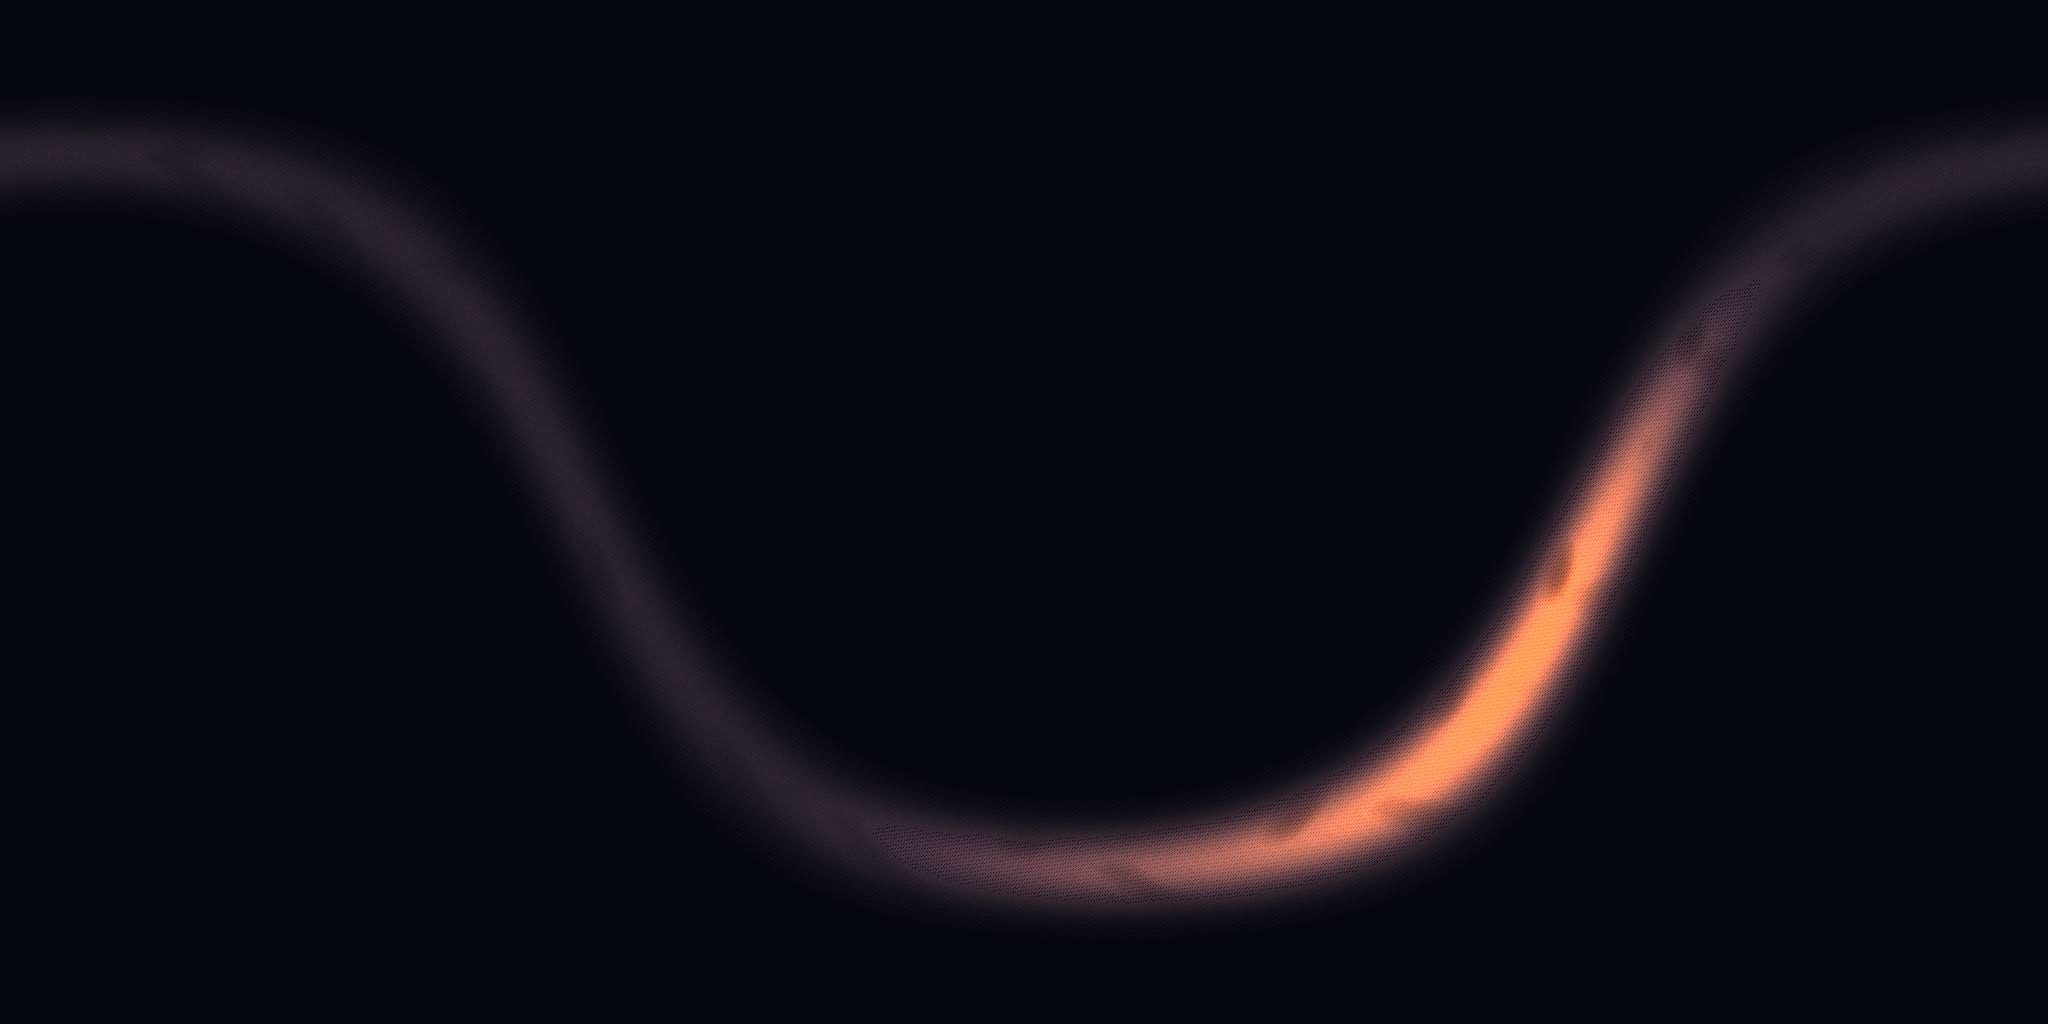
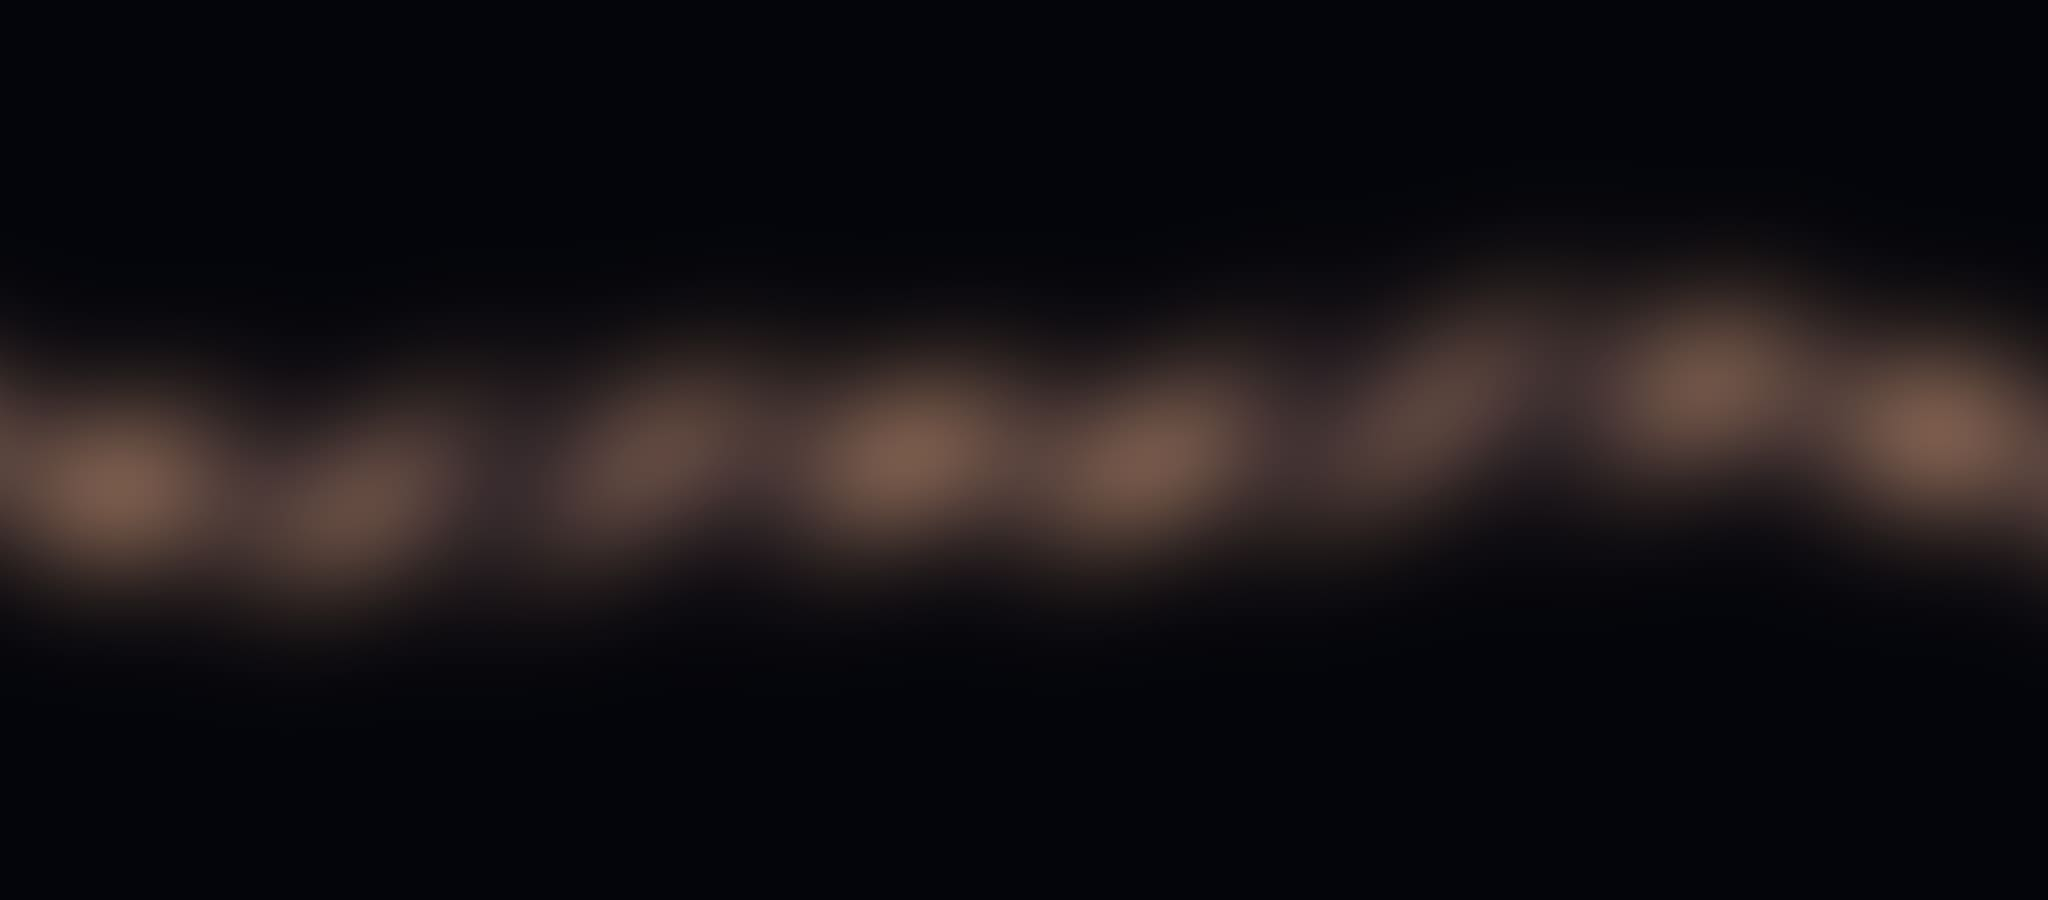
Remplir l’écran avec Pégase et ajouter l’étoile Davissiv.
Le cheval couvre la page, la Voie lactée défile sans l’arc orange, et le projet est enregistré dans le ciel.

diff --git a/app/globals.css b/app/globals.css
@@ -3082,11 +3082,50 @@ html.nav-vt::view-transition-group(nav-pill) {
   height: 100lvh;
 }
 
-.projets-copy,
 .projets .scroll-stage {
   position: relative;
   z-index: 2;
+  min-height: 0;
+  place-items: start center;
+  padding: calc(env(safe-area-inset-top) + 4.5rem) 1rem 0;
   pointer-events: none;
+}
+
+.projets .tone-sea {
+  padding-bottom: 0;
+}
+
+.projets .scroll-head h1 {
+  font-size: clamp(1.15rem, 2.4vw, 1.7rem);
+  letter-spacing: 0.22em;
+  text-transform: uppercase;
+}
+
+.projets .scroll-cue,
+.projets .scroll-mark {
+  display: none;
+}
+
+.projets .projets-copy {
+  position: absolute;
+  z-index: 2;
+  right: 0;
+  bottom: calc(4.4rem + env(safe-area-inset-bottom));
+  left: 0;
+  pointer-events: none;
+}
+
+.projets .ice {
+  width: min(28rem, calc(100% - 2rem));
+  padding: 0.7rem 0.9rem;
+  background: rgba(0, 0, 0, 0.28);
+  border-color: transparent;
+  box-shadow: none;
+  backdrop-filter: none;
+}
+
+.projets .altimeter {
+  display: none;
 }
 
 .sky-sticky {
@@ -3106,14 +3145,6 @@ html.nav-vt::view-transition-group(nav-pill) {
   border: 0;
   background: #000;
   touch-action: pan-y;
-  -webkit-mask-image:
-    linear-gradient(to right, transparent, #000 6%, #000 94%, transparent),
-    linear-gradient(to bottom, transparent, #000 6%, #000 94%, transparent);
-  -webkit-mask-composite: source-in;
-  mask-image:
-    linear-gradient(to right, transparent, #000 6%, #000 94%, transparent),
-    linear-gradient(to bottom, transparent, #000 6%, #000 94%, transparent);
-  mask-composite: intersect;
 }
 
 .pegase-scene {
@@ -3139,7 +3170,9 @@ html.nav-vt::view-transition-group(nav-pill) {
   width: 50%;
   height: 100%;
   object-fit: cover;
+  object-position: center;
   flex: none;
+  filter: saturate(0.85);
 }
 
 @keyframes voie-boucle {
@@ -3154,20 +3187,23 @@ html.nav-vt::view-transition-group(nav-pill) {
 .cheval-cadre {
   position: absolute;
   inset: 0;
-  display: grid;
-  place-items: center;
+  overflow: hidden;
 }
 
 .cheval-plan {
-  position: relative;
-  width: min(100%, calc(100lvh * 1024 / 733));
-  height: min(100%, calc(100vw * 733 / 1024));
+  position: absolute;
+  left: 50%;
+  top: 50%;
+  width: max(100vw, calc(100lvh * 1024 / 733));
+  height: max(100lvh, calc(100vw * 733 / 1024));
+  transform: translate3d(-50%, -50%, 0);
 }
 
 .cheval-fixe {
   display: block;
   width: 100%;
   height: 100%;
+  object-fit: fill;
   pointer-events: none;
   user-select: none;
 }
@@ -3231,7 +3267,11 @@ html.nav-vt::view-transition-group(nav-pill) {
   cursor: pointer;
 }
 
-.etoile-hit.is-born {
+.etoile-hit.is-coeur {
+  width: 3rem;
+  height: 3rem;
+  background: radial-gradient(circle, #fff4d2, rgba(255, 186, 70, 0.85) 42%, transparent 70%);
+}
   animation: etoile-nait 1.6s cubic-bezier(0.22, 1, 0.36, 1);
 }
 

diff --git a/lib/etoiles/etat.ts b/lib/etoiles/etat.ts
@@ -28,15 +28,18 @@ function empty(): Etat {
 }
 
 function normalize(value: Etat): Etat {
+  const mapped = Array.isArray(value.etoiles)
+    ? value.etoiles.map((etoile) => {
+        const base = { ...etoile, auteur: SIGNATURE };
+        if (base.id === "citation-2026-05-26") return { ...base, ra: 349, dec: 26 };
+        if (base.id === "endurreisen") return { ...base, titre: "Endurreisen" };
+        return base;
+      })
+    : semence();
+  const projet = semence().find((etoile) => etoile.id === "creation-langue-davissiv");
+  const etoiles = projet && !mapped.some((etoile) => etoile.id === projet.id) ? [...mapped, projet] : mapped;
   return {
-    etoiles: Array.isArray(value.etoiles)
-      ? value.etoiles.map((etoile) => {
-          const base = { ...etoile, auteur: SIGNATURE };
-          if (base.id === "citation-2026-05-26") return { ...base, ra: 349, dec: 26 };
-          if (base.id === "endurreisen") return { ...base, titre: "Endurreisen" };
-          return base;
-        })
-      : semence(),
+    etoiles,
     coeurs: value.coeurs ?? {},
     sessions: value.sessions ?? {},
     totpStep: value.totpStep ?? 0,
@@ -78,10 +81,13 @@ async function saveFile(etat: Etat) {
 const remote = () => Boolean(process.env.BLOB_READ_WRITE_TOKEN);
 
 function doitEnregistrer(value: Etat) {
-  return (value.etoiles ?? []).some(
-    (etoile) =>
-      (etoile.id === "citation-2026-05-26" && (etoile.ra !== 349 || etoile.dec !== 26)) ||
-      (etoile.id === "endurreisen" && etoile.titre !== "Endurreisen"),
+  const stars = value.etoiles ?? [];
+  return (
+    stars.some(
+      (etoile) =>
+        (etoile.id === "citation-2026-05-26" && (etoile.ra !== 349 || etoile.dec !== 26)) ||
+        (etoile.id === "endurreisen" && etoile.titre !== "Endurreisen"),
+    ) || !stars.some((etoile) => etoile.id === "creation-langue-davissiv")
   );
 }
 

diff --git a/components/Header.tsx b/components/Header.tsx
@@ -26,10 +26,14 @@ export function Header() {
   const taps = useRef<number[]>([]);
   const navTimer = useRef(0);
 
-  const onBrand = (event: React.PointerEvent<HTMLAnchorElement>) => {
-    if (event.button !== 0) return;
+  const stamp = useRef(0);
+
+  const onBrand = (event: { button?: number; preventDefault: () => void }) => {
+    if (event.button != null && event.button !== 0) return;
     event.preventDefault();
     const now = performance.now();
+    if (now - stamp.current < 35) return;
+    stamp.current = now;
     taps.current = [...taps.current.filter((time) => now - time < 2800), now];
     window.clearTimeout(navTimer.current);
     if (taps.current.length >= 8) {
@@ -41,7 +45,7 @@ export function Header() {
       const count = taps.current.length;
       taps.current = [];
       if (count === 1 && pathname !== "/") router.push("/");
-    }, 420);
+    }, 480);
   };
 
   useLayoutEffect(() => {
@@ -81,8 +85,9 @@ export function Header() {
           onPointerDown={(event) => {
             if (event.button === 0) event.preventDefault();
           }}
-          onClick={(event) => event.preventDefault()}
           onPointerUp={onBrand}
+          onTouchEnd={onBrand}
+          onClick={(event) => event.preventDefault()}
         >
           <span className="seal">
             <Image

diff --git a/components/CielProjets.tsx b/components/CielProjets.tsx
@@ -66,6 +66,7 @@ export function CielProjets({ initial }: { initial: PublicEtoile[] }) {
   async function envoyer(path: string, init: RequestInit) {
     const response = await fetch(path, {
       ...init,
+      credentials: "same-origin",
       headers: { ...(init.headers || {}), "x-edition-jeton": jeton },
     });
     const data = (await response.json()) as { jeton?: string; erreur?: string; etoile?: PublicEtoile; media?: Media };
@@ -111,7 +112,7 @@ export function CielProjets({ initial }: { initial: PublicEtoile[] }) {
                     <button
                       key={etoile.id}
                       type="button"
-                      className={born === etoile.id ? "etoile-hit is-born" : "etoile-hit"}
+                      className={etoile.id === "endurreisen" ? "etoile-hit is-coeur" : born === etoile.id ? "etoile-hit is-born" : "etoile-hit"}
                       style={{ left: `${place.x}%`, top: `${place.y}%` }}
                       aria-label={etoile.titre || "Étoile"}
                       onClick={() => setActive(etoile.id)}

diff --git a/lib/etoiles/points.ts b/lib/etoiles/points.ts
@@ -1,19 +1,17 @@
 /** Points clés de la gravure, en pourcentages de l’image. Le premier est le poitrail, réservé à Endurreisen. */
 export const POINTS_PEGASE = [
-  { x: 57, y: 46 },
-  { x: 48, y: 34 },
-  { x: 68, y: 36 },
-  { x: 82, y: 43 },
-  { x: 75, y: 33 },
-  { x: 42, y: 52 },
-  { x: 22, y: 34 },
-  { x: 33, y: 26 },
-  { x: 51, y: 64 },
-  { x: 45, y: 80 },
-  { x: 34, y: 86 },
-  { x: 64, y: 56 },
-  { x: 70, y: 50 },
-  { x: 56, y: 28 },
+  { x: 52, y: 48 },
+  { x: 43, y: 40 },
+  { x: 62, y: 36 },
+  { x: 78, y: 42 },
+  { x: 72, y: 32 },
+  { x: 46, y: 60 },
+  { x: 28, y: 36 },
+  { x: 38, y: 30 },
+  { x: 50, y: 66 },
+  { x: 58, y: 58 },
+  { x: 66, y: 50 },
+  { x: 54, y: 32 },
 ];
 
 export function emplacements(ids: string[]) {

diff --git a/components/Altimeter.tsx b/components/Altimeter.tsx
@@ -1,11 +1,13 @@
 "use client";
 
 import { useEffect, useRef } from "react";
+import { usePathname } from "next/navigation";
 import { Block } from "@/components/Locale";
 
 const formatter = new Intl.NumberFormat("fr-FR");
 
 export function Altimeter() {
+  const path = usePathname();
   const valueRef = useRef<HTMLSpanElement>(null);
   const dotRef = useRef<HTMLSpanElement>(null);
 
@@ -39,6 +41,8 @@ export function Altimeter() {
       if (frame) window.cancelAnimationFrame(frame);
     };
   }, []);
+
+  if (path === "/projets") return null;
 
   return (
     <div className="altimeter" aria-hidden="true">

diff --git a/lib/etoiles/semence.ts b/lib/etoiles/semence.ts
@@ -27,6 +27,19 @@ export function semence(): Etoile[] {
       medias: [],
     },
     {
+      id: "creation-langue-davissiv",
+      titre: "Création de la langue Davissiv",
+      texte: "",
+      auteur: SIGNATURE,
+      date: "2026-11-16",
+      police: "fraunces",
+      style: "normal",
+      ra: 336,
+      dec: 22,
+      seuil: 0,
+      medias: [],
+    },
+    {
       id: "endurreisen",
       titre: "Endurreisen",
       texte: "",
